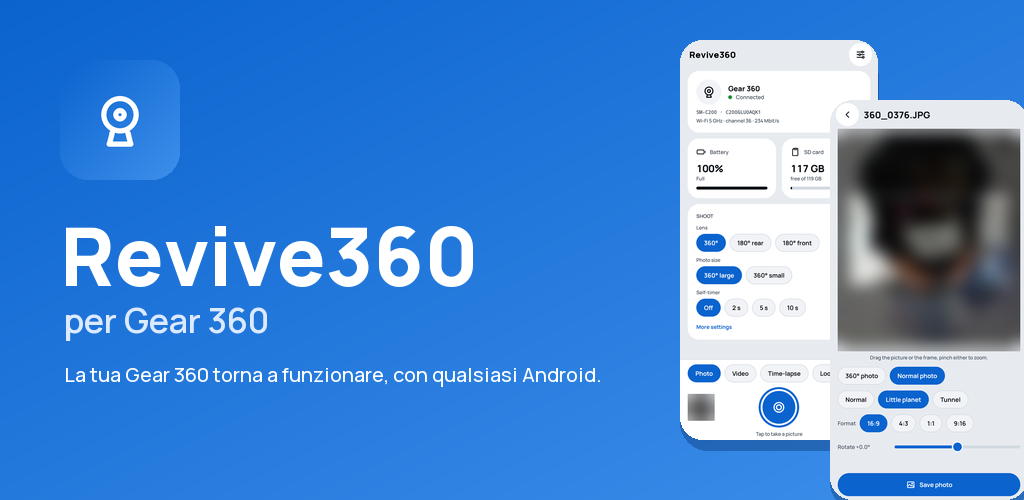
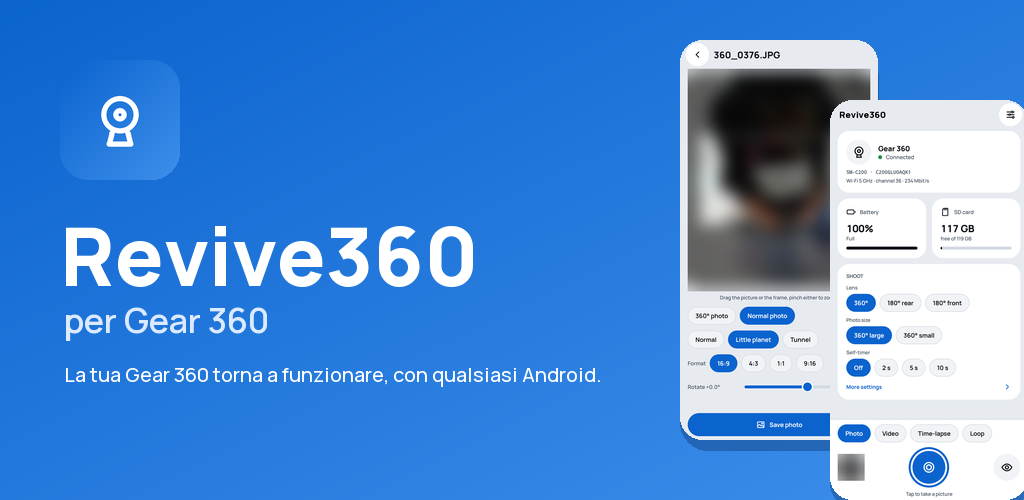
Play feature graphic: the home screen in front, the 360 viewer behind

Changed region(s): [[0.6562, 0.09, 1.0, 1.0]]

diff --git a/fastlane/make_store_graphics.py b/fastlane/make_store_graphics.py
@@ -93,7 +93,7 @@ def feature_graphic(t, out):
     while draw.textlength(tag, font=font(size, 500)) > 560:
         size -= 1
     draw.text((64, 360), tag, font=font(size, 500), fill="white")
-    for i, name in enumerate(("home", "viewer360")):
+    for i, name in enumerate(("viewer360", "home")):
         shot = Image.open(SHOTS / f"{name}.png").convert("RGB")
         sh = 400
         sw = round(shot.width * sh / shot.height)
